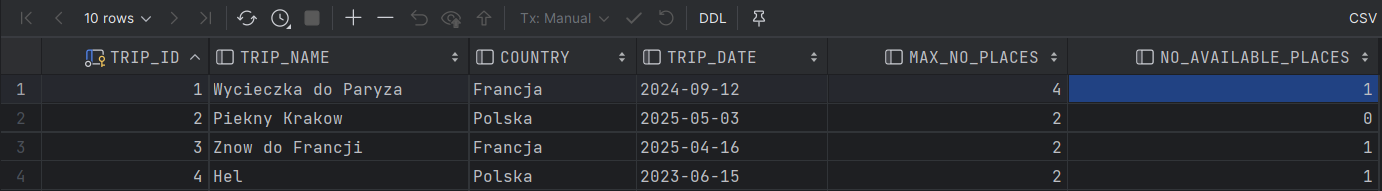
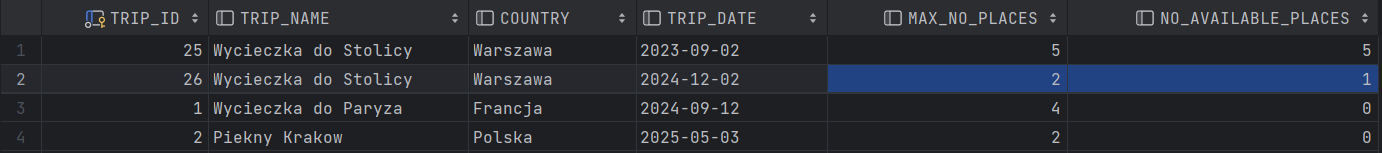
Done 6B

diff --git a/Lab1.md b/Lab1.md
@@ -1099,6 +1099,7 @@ BEGIN
     UPDATE TRIP SET NO_AVAILABLE_PLACES = p_no_available_places
     WHERE TRIP_ID = p_trip_id;
 
+    COMMIT;
     DBMS_OUTPUT.PUT_LINE('Number of available places modified successfully!');
 END;
 ```
@@ -1311,12 +1312,19 @@ Należy stworzyć nowe wersje tych widoków/procedur/triggerów (np. dodając do
 
 ```sql
 CREATE OR REPLACE TRIGGER trg_add_reservation_6b
-BEFORE INSERT ON RESERVATION
+AFTER INSERT ON RESERVATION
 FOR EACH ROW
 BEGIN
-    IF not f_trip_is_available(:new.trip_id) then
-        raise_application_error(-20003, 'There are no available places on this trip!');
-    ELSE p_update_no_available_places(:new.trip_id);
+    IF :new.status != :old.status THEN
+        IF :new.status = 'C' THEN
+            UPDATE TRIP
+                SET NO_AVAILABLE_PLACES = NO_AVAILABLE_PLACES + 1
+                WHERE TRIP_ID = :new.trip_id;
+        ELSE
+            UPDATE TRIP
+                SET NO_AVAILABLE_PLACES = NO_AVAILABLE_PLACES - 1
+                WHERE TRIP_ID = :new.trip_id;
+        end if;
     END IF;
 END;
 ```
@@ -1356,6 +1364,133 @@ BEGIN
 END;
 ```
 
+Przykładowe wywołanie:
+
+![](img/zad6b-1.png)
+
+![](img/zad6b-2.png)
+
+- trg_modify_reservation_status_6b
+
+```sql
+CREATE OR REPLACE TRIGGER trg_modify_reservation_status_6b
+AFTER UPDATE ON RESERVATION
+FOR EACH ROW
+BEGIN
+    IF :new.status != :old.status THEN
+        IF :new.status = 'C' THEN
+            UPDATE TRIP
+                SET NO_AVAILABLE_PLACES = NO_AVAILABLE_PLACES + 1
+                WHERE TRIP_ID = :new.trip_id;
+        ELSE
+            UPDATE TRIP
+                SET NO_AVAILABLE_PLACES = NO_AVAILABLE_PLACES - 1
+                WHERE TRIP_ID = :new.trip_id;
+        end if;
+    end if;
+END;
+```
+
+- p_modify_reservation_status_6b
+
+```sql
+create or replace PROCEDURE p_modify_reservation_status_6b (
+    p_reservation_id reservation.reservation_id%TYPE,
+    p_status reservation.STATUS%TYPE
+)
+AS
+    v_current_status CHAR;
+    v_trip_date DATE;
+    v_trip_id trip.trip_id%TYPE;
+BEGIN
+    IF not f_reservation_exist(p_reservation_id) then
+        raise_application_error(-20000, 'Reservation not found!');
+    end if;
+
+    IF p_status NOT in ('N', 'P', 'C') then
+        RAISE_APPLICATION_ERROR(-20005, 'Status is not correct! Give one of the values "N", "P", "C"');
+    END IF;
+
+    SELECT STATUS INTO v_current_status FROM RESERVATION
+    WHERE RESERVATION_ID = p_reservation_id;
+
+    SELECT TRIP_ID INTO v_trip_id FROM RESERVATION
+    WHERE RESERVATION_ID = p_reservation_id;
+
+    IF p_status = 'C' THEN
+        SELECT TRIP_DATE INTO v_trip_date FROM TRIP
+        WHERE TRIP_ID = v_trip_id;
+
+        IF v_trip_date <= SYSDATE THEN
+            RAISE_APPLICATION_ERROR(-20006, 'Cannot cancel reservation for past trip!');
+        END IF;
+    END IF;
+
+    UPDATE RESERVATION SET STATUS = p_status
+    WHERE RESERVATION_ID = p_reservation_id;
+
+    COMMIT;
+    DBMS_OUTPUT.PUT_LINE('Reservation status modified successfully!');
+END;
+```
+
+Przykładowe wywołanie:
+
+![](img/zad6b-2.png)
+
+![](img/zad6b-1.png)
+
+- trg_modify_max_no_places_6b
+
+```sql
+CREATE OR REPLACE TRIGGER trg_modify_max_no_places_6b
+BEFORE UPDATE ON TRIP
+FOR EACH ROW
+BEGIN
+     :new.NO_AVAILABLE_PLACES := :old.NO_AVAILABLE_PLACES + (:new.MAX_NO_PLACES - :old.max_no_places);
+END;
+```
+
+- p_modify_max_no_places_6b
+
+```sql
+create or replace PROCEDURE p_modify_max_no_places_6b (
+    p_trip_id trip.trip_id%TYPE,
+    p_max_no_places trip.max_no_places%TYPE
+)
+AS
+    v_current_max_no_places trip.max_no_places%TYPE;
+    v_no_available trip.max_no_places%TYPE;
+BEGIN
+    IF not f_trip_exist(p_trip_id) then
+        raise_application_error(-20006, 'Trip not found!');
+    end if;
+
+    SELECT MAX_NO_PLACES INTO v_current_max_no_places FROM TRIP
+    WHERE TRIP_ID = p_trip_id;
+
+    if v_current_max_no_places <= 0 then
+        raise_application_error(-20007, 'This number is smaller than 0!');
+    end if;
+
+    SELECT NO_AVAILABLE_PLACES INTO v_no_available FROM VW_TRIP
+    WHERE TRIP_ID = p_trip_id;
+
+    if p_max_no_places < v_current_max_no_places - v_no_available then
+        raise_application_error(-20008, 'This number is smaller than the number of reserved places!');
+    end if;
+
+    UPDATE TRIP SET MAX_NO_PLACES = p_max_no_places
+    WHERE TRIP_ID = p_trip_id;
+
+    COMMIT;
+    DBMS_OUTPUT.PUT_LINE('Max number of places modified successfully!');
+END;
+```
+
+![](img/zad6b-1.png)
+
+![](img/zad6b-3.png)
 
 # Zadanie 7 - podsumowanie
 
@@ -1363,6 +1498,5 @@ Porównaj sposób programowania w systemie Oracle PL/SQL ze znanym ci systemem/j
 
 ```sql
 
--- komentarz ...
 
 ```
